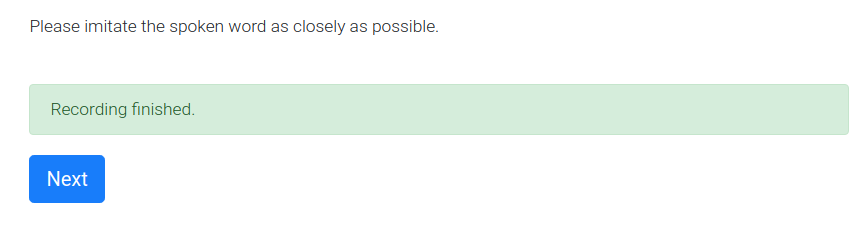
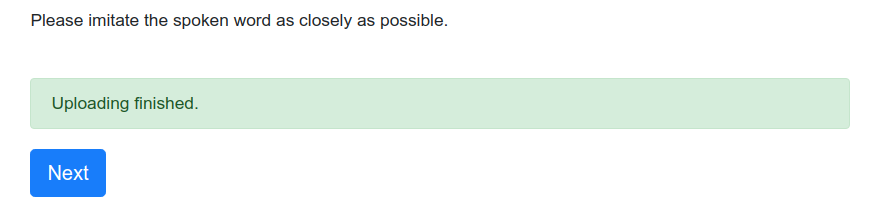
Update modular_page docs

diff --git a/docs/experimenter/modular_page.rst b/docs/experimenter/modular_page.rst
@@ -44,12 +44,29 @@ Audio/Video controls
   :width: 600
   :alt: AudioRecordControl (recording)
 
+.. image:: ../_static/images/audio_record_control_uploading.png
+  :width: 600
+  :alt: AudioRecordControl (uploading)
+
 .. image:: ../_static/images/audio_record_control_finished.png
-  :width: 580
+  :width: 600
   :alt: AudioRecordControl (finished)
 
-
 * :class:`~psynet.modular_page.TappingAudioMeterControl`
+
+.. image:: ../_static/images/tapping_audio_meter_control.png
+  :width: 560
+  :alt: TappingAudioMeterControl
+
+* :class:`~psynet.modular_page.SliderControl`
+
+.. image:: ../_static/images/slider_control.png
+  :width: 580
+  :alt: SliderControl
+
+* :class:`~psynet.modular_page.ColorSliderControl`
+
+* :class:`~psynet.modular_page.AudioSliderControl`
 
 * :class:`~psynet.modular_page.VideoSliderControl`
 
@@ -80,6 +97,12 @@ These classes inherit from :class:`~psynet.modular_page.OptionControl`.
   :width: 800
   :alt: PushButtonControl
 
+* :class:`~psynet.modular_page.TimedPushButtonControl`
+
+.. image:: ../_static/images/timed_push_button_control.png
+  :width: 800
+  :alt: TimedPushButtonControl
+
 * :class:`~psynet.modular_page.RadioButtonControl`
 
 .. image:: ../_static/images/radiobutton_control.png
@@ -90,6 +113,12 @@ Other controls
 ~~~~~~~~~~~~~~
 
 * :class:`~psynet.modular_page.NullControl`
+
+* :class:`~psynet.modular_page.NumberControl`
+
+.. image:: ../_static/images/number_control.png
+  :width: 800
+  :alt: NumberControl
 
 * :class:`~psynet.modular_page.SliderControl`
 
